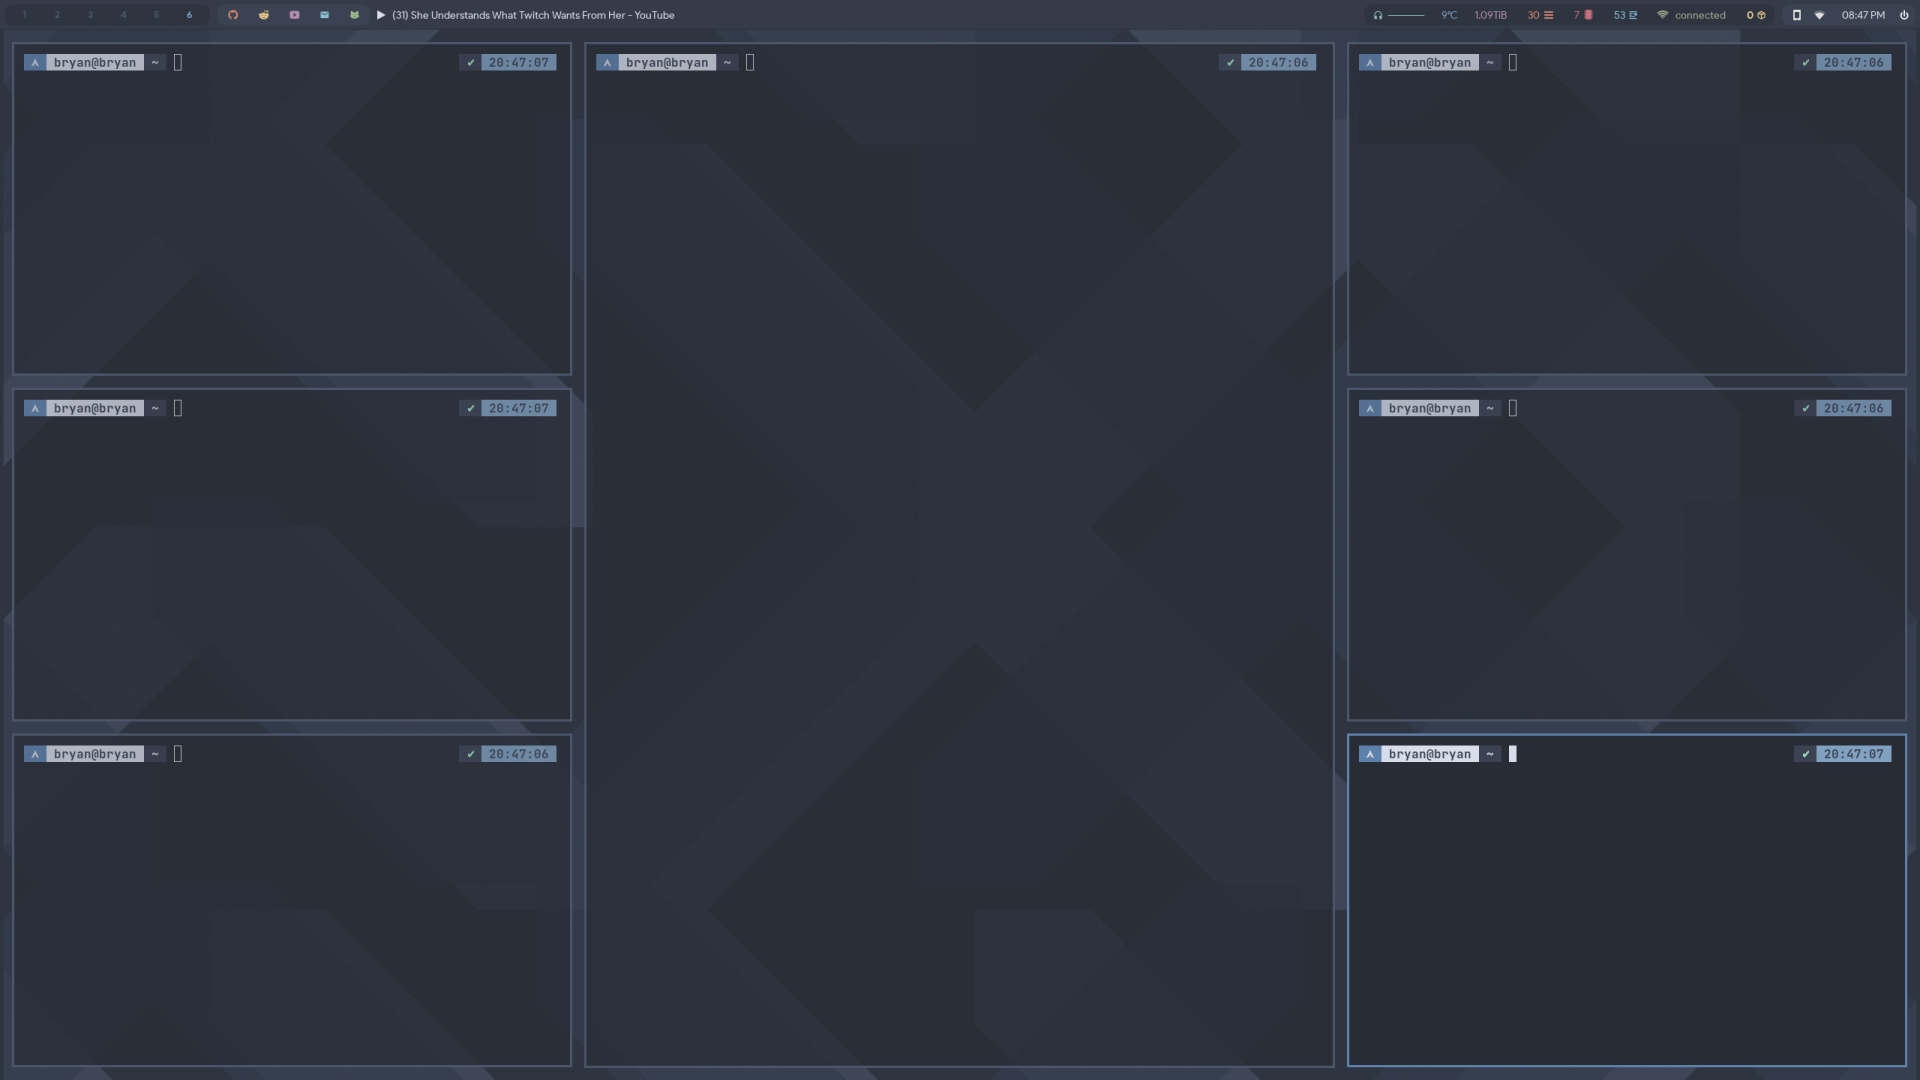
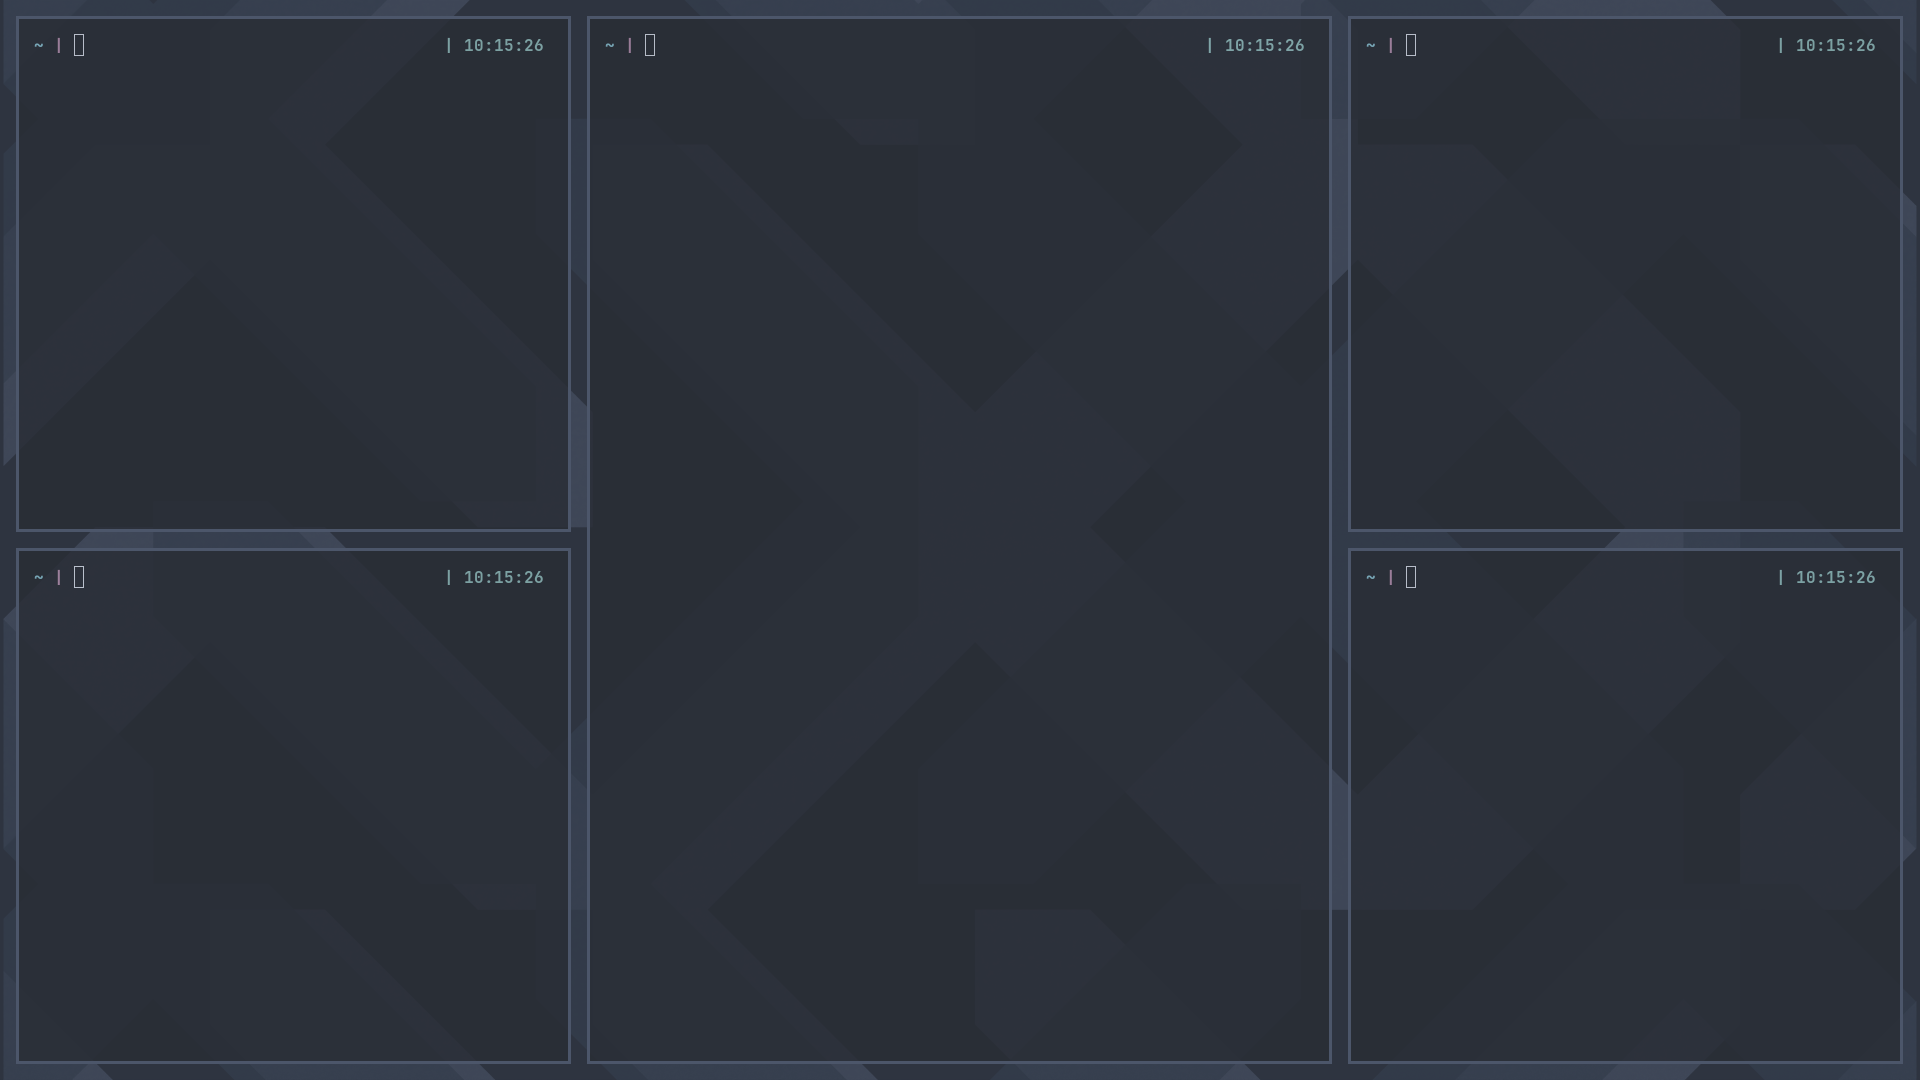
images

diff --git a/src/layout.rs b/src/layout.rs
@@ -63,7 +63,7 @@ pub fn hive(mut node_tree:Vec<Window>, client_count:u32, master_count:u32, maste
     let branch_count: u32=(client_count-1)/2;
 
     if client_count<3 {
-        node_tree=stack(node_tree, client_count, master_count, master_width_factor, screen_width, screen_height);
+        node_tree=grid(node_tree, client_count, master_count, master_width_factor, screen_width, screen_height);
         return node_tree
     } else {
 
